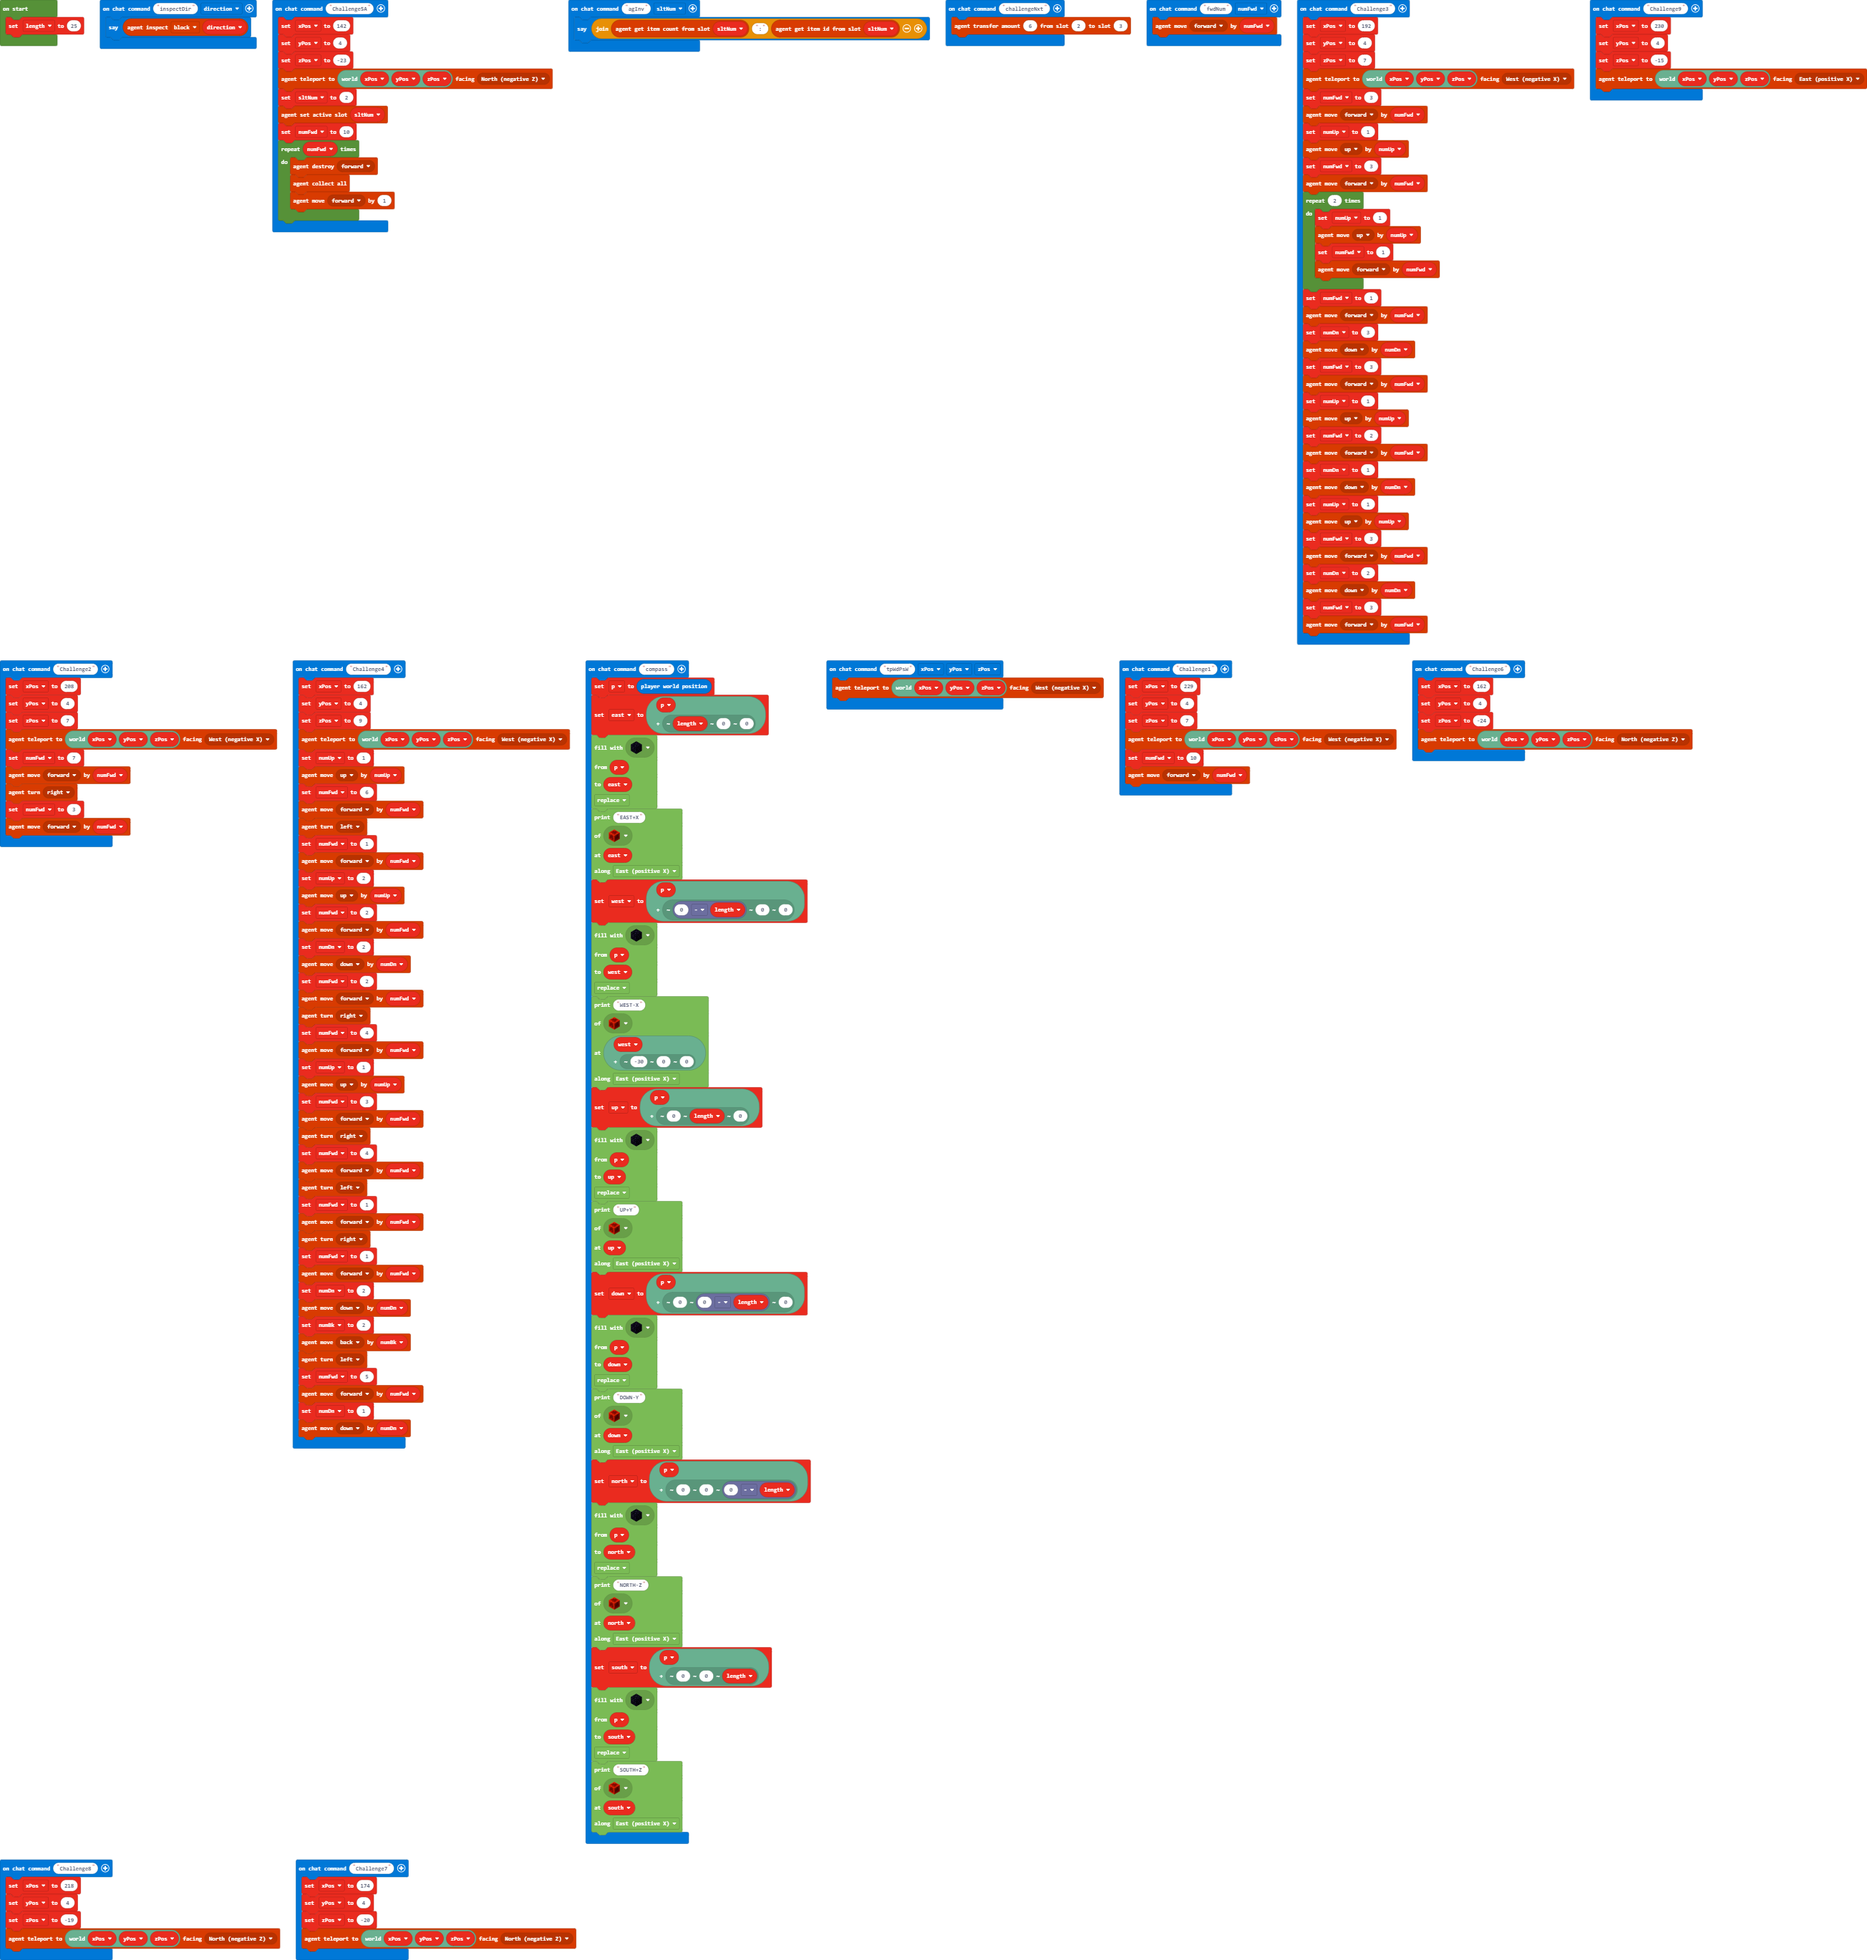
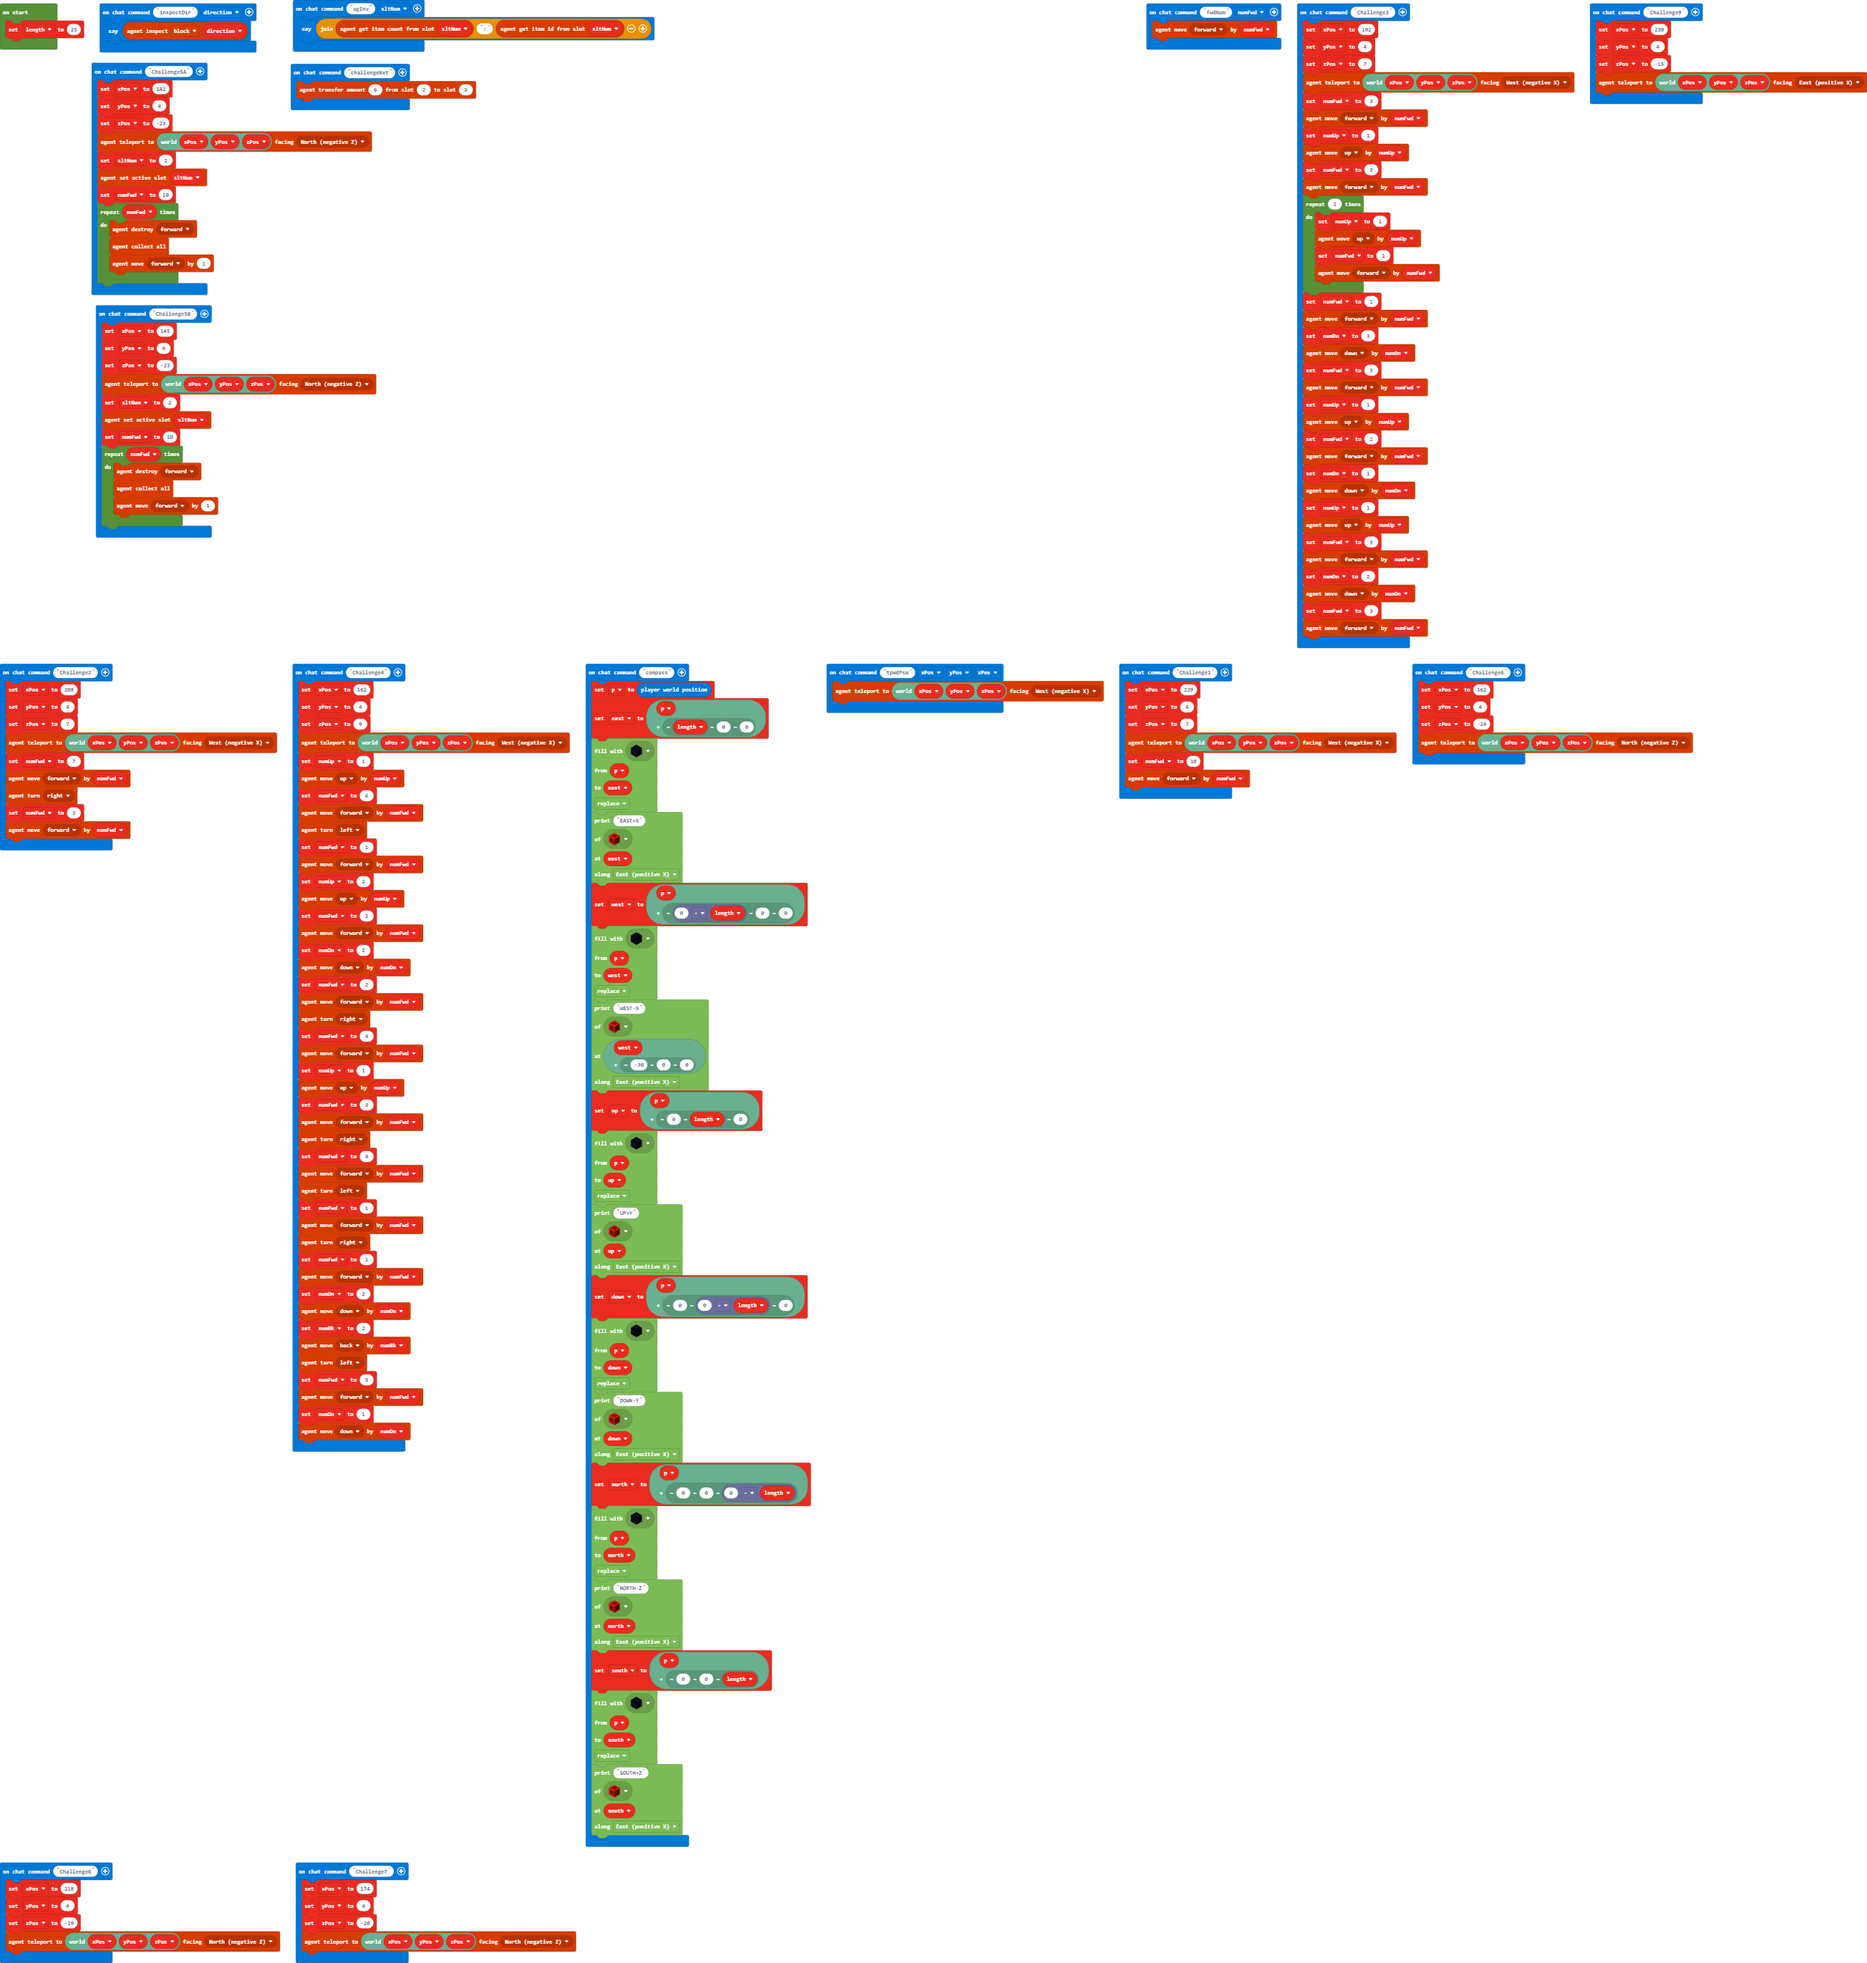
completed challenge5B

Changed region(s): [[0.0, 0.0, 1.0, 0.4037], [0.0, 0.3106, 0.4348, 0.8696]]

diff --git a/main.ts b/main.ts
@@ -1,6 +1,20 @@
 player.onChat("inspectDir", function (direction) {
     player.say(agent.inspect(AgentInspection.Block, direction))
 })
+player.onChat("Challenge5B", function () {
+    xPos = 145
+    yPos = 4
+    zPos = -23
+    agent.teleport(world(xPos, yPos, zPos), NORTH)
+    sltNum = 2
+    agent.setSlot(sltNum)
+    numFwd = 10
+    for (let index = 0; index < numFwd; index++) {
+        agent.destroy(FORWARD)
+        agent.collectAll()
+        agent.move(FORWARD, 1)
+    }
+})
 player.onChat("Challenge3", function () {
     xPos = 192
     yPos = 4
@@ -264,10 +278,10 @@ let west: Position = null
 let east: Position = null
 let p: Position = null
 let numBk = 0
-let sltNum = 0
 let numDn = 0
 let numUp = 0
 let numFwd = 0
+let sltNum = 0
 let zPos = 0
 let yPos = 0
 let xPos = 0
